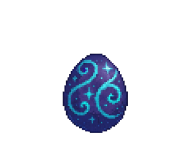
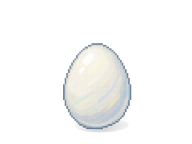
Gameplay changes

Changed region(s): [[0.3125, 0.2778, 0.6875, 0.9444]]

diff --git a/src/store/gameStore.ts b/src/store/gameStore.ts
@@ -479,17 +479,17 @@ export const useGameStore = create<GameState>((set, get) => ({
             // Use sequential habitat indexing instead of terrain type count
             const habitatId = habitats.length;
             
-            // Check if this is a water habitat and if we're in initial board setup
-            const isWaterHabitat = terrainType === TerrainType.WATER;
-            const shouldImproveForPlayer = isWaterHabitat && !state.isInitialized && state.players.length > 0;
+            // Check if this is a beach habitat and if we're in initial board setup
+            const isBeachHabitat = terrainType === TerrainType.BEACH;
+            const shouldImproveForPlayer = isBeachHabitat && !state.isInitialized && state.players.length > 0;
             
             const newHabitat: Habitat = {
               id: `habitat-${habitatId}`,
               position: position,
-              // If this is a water habitat during initial setup and we have a player, set to IMPROVED
+              // If this is a beach habitat during initial setup and we have a player, set to IMPROVED
               state: shouldImproveForPlayer ? HabitatState.IMPROVED : HabitatState.POTENTIAL,
-              // Set shelterType to REEF for water if improved for player
-              shelterType: shouldImproveForPlayer ? ShelterType.REEF : null,
+              // Set shelterType to TIDEPOOL for beach if improved for player
+              shelterType: shouldImproveForPlayer ? ShelterType.TIDEPOOL : null,
               // Set ownerId to player's ID if improved for player
               ownerId: shouldImproveForPlayer ? playerId : null,
               productionRate: 1, // Fixed at 1
@@ -623,7 +623,7 @@ export const useGameStore = create<GameState>((set, get) => ({
         }
         
         // Now place eggs after biomes are generated
-        // Place initial eggs around the habitat, but ONLY for the player's improved water habitat
+        // Place initial eggs around the habitat, but ONLY for the player's improved beach habitat
         habitats.forEach(habitat => {
           // Only place eggs for improved habitats with owners
           if (habitat.productionRate > 0 && 
@@ -653,7 +653,15 @@ export const useGameStore = create<GameState>((set, get) => ({
                   animal.position.y === y
                 );
                 
-                if (!hasEgg) {
+                // For player 1's starting unit, only allow beach terrain
+                if (habitat.shelterType === ShelterType.TIDEPOOL && 
+                    habitat.ownerId === playerId) {
+                  // Only add beach tiles
+                  if (terrainData[y][x] === TerrainType.BEACH && !hasEgg) {
+                    adjacentTiles.push({ x, y });
+                  }
+                } else if (!hasEgg) {
+                  // For other habitats, add any valid tile
                   adjacentTiles.push({ x, y });
                 }
               }
@@ -670,7 +678,10 @@ export const useGameStore = create<GameState>((set, get) => ({
               // Create new egg
               const newAnimal = {
                 id: `animal-${animals.length}`,
-                species: TERRAIN_ANIMAL_MAP[terrainData[tile.y][tile.x]],
+                // For the player 1's starting unit, always use turtle
+                species: (habitat.shelterType === ShelterType.TIDEPOOL && 
+                          habitat.ownerId === playerId) ? 
+                         'turtle' : TERRAIN_ANIMAL_MAP[terrainData[tile.y][tile.x]],
                 state: AnimalState.DORMANT,
                 position: tile,
                 previousPosition: null,
@@ -683,10 +694,10 @@ export const useGameStore = create<GameState>((set, get) => ({
                 terrain: terrainData[tile.y][tile.x] 
               });
               
-              // If this animal is from an improved player-owned water habitat, make it active and owned
+              // If this animal is from an improved player-owned beach habitat, make it active and owned
               if (habitat.state === HabitatState.IMPROVED && 
                   habitat.ownerId !== null && 
-                  habitat.shelterType === ShelterType.REEF) {
+                  habitat.shelterType === ShelterType.TIDEPOOL) {
                 // Make this the active player unit
                 newAnimal.state = AnimalState.ACTIVE;
                 // Type assertion to handle the number assignment to the ownerId property
@@ -975,7 +986,7 @@ interface ValidEggPlacementState {
  * 
  * @param habitat The habitat to find valid egg placement tiles for
  * @param state Simplified game state containing board and animals
- * @returns Array of valid tile coordinates for egg placement, prioritized by proximity to resources
+ * @returns Array of valid tile coordinates for egg placement, prioritized by proximity to resources in owned biomes
  */
 const getValidEggPlacementTiles = (
   habitat: Habitat,
@@ -988,24 +999,50 @@ const getValidEggPlacementTiles = (
     return validTiles;
   }
   
-  // Get the biome ID for this habitat by looking up the tile's biome ID
+  // Get the habitat's owner and biome ID
+  const habitatOwnerId = habitat.ownerId;
   const habitatTile = board.tiles[habitat.position.y][habitat.position.x];
-  const biomeId = habitatTile.biomeId;
+  const habitatBiomeId = habitatTile.biomeId;
   
-  if (!biomeId) {
+  if (!habitatBiomeId) {
     console.warn(`Habitat at ${habitat.position.x},${habitat.position.y} has no biome ID`);
     return validTiles; 
   }
   
+  // Get all biomes owned by this player
+  const playerBiomeIds = new Set<string>();
+  playerBiomeIds.add(habitatBiomeId); // Always include current biome
+  
+  // Find all biomes owned by this player by checking habitats
+  const habitats = useGameStore.getState().habitats;
+  habitats.forEach(h => {
+    if (h.ownerId === habitatOwnerId && h.ownerId !== null) {
+      const biomeTile = board.tiles[h.position.y][h.position.x];
+      if (biomeTile.biomeId) {
+        playerBiomeIds.add(biomeTile.biomeId);
+      }
+    }
+  });
+  
+  console.log(`Player ${habitatOwnerId} owns ${playerBiomeIds.size} biomes`);
+  
   // Create a set of resource positions for quick lookup
   const resourcePositions = new Set<string>();
+  const resourceBiomeMap = new Map<string, string | undefined>();
   const resources = useGameStore.getState().resources;
+  
   resources.forEach(resource => {
-    resourcePositions.add(`${resource.position.x},${resource.position.y}`);
+    const key = `${resource.position.x},${resource.position.y}`;
+    resourcePositions.add(key);
+    // Store the biome ID for each resource
+    const resourceTile = board.tiles[resource.position.y][resource.position.x];
+    resourceBiomeMap.set(key, resourceTile.biomeId || undefined);
   });
   
   // Track positions with resources for prioritization
   const resourceAdjacencyMap = new Map<string, number>();
+  // Track proximity to habitat
+  const habitatProximityMap = new Map<string, boolean>();
   
   // Scan the entire board for tiles in this biome
   for (let y = 0; y < board.height; y++) {
@@ -1016,7 +1053,7 @@ const getValidEggPlacementTiles = (
       const tile = board.tiles[y][x];
       
       // Skip if not in the same biome
-      if (tile.biomeId !== biomeId) continue;
+      if (tile.biomeId !== habitatBiomeId) continue;
       
       // Skip if there's a resource on this tile
       if (resourcePositions.has(`${x},${y}`)) continue;
@@ -1042,15 +1079,28 @@ const getValidEggPlacementTiles = (
             if (dx === 0 && dy === 0) continue;
             if (adjX < 0 || adjX >= board.width || adjY < 0 || adjY >= board.height) continue;
             
-            // Increase score if there's a resource adjacent
-            if (resourcePositions.has(`${adjX},${adjY}`)) {
-              adjacencyScore += 1;
+            const resourcePos = `${adjX},${adjY}`;
+            
+            // Check if there's a resource at this position
+            if (resourcePositions.has(resourcePos)) {
+              // Get the biome ID of this resource
+              const resourceBiomeId = resourceBiomeMap.get(resourcePos);
+              
+              // Only count if the resource is in a biome owned by the player
+              if (resourceBiomeId && playerBiomeIds.has(resourceBiomeId)) {
+                adjacencyScore += 1;
+              }
             }
           }
         }
         
         // Store the score for later sorting
         resourceAdjacencyMap.set(`${x},${y}`, adjacencyScore);
+        
+        // Check if tile is adjacent to the habitat (for tie-breaking)
+        const isAdjacentToHabitat = Math.abs(x - habitat.position.x) <= 1 && 
+                                   Math.abs(y - habitat.position.y) <= 1;
+        habitatProximityMap.set(`${x},${y}`, isAdjacentToHabitat);
         
         // Add to valid tiles
         validTiles.push({ x, y });
@@ -1059,10 +1109,26 @@ const getValidEggPlacementTiles = (
   }
   
   // Sort valid tiles by resource adjacency score (higher is better)
+  // Use habitat proximity as a tie-breaker
   validTiles.sort((a, b) => {
     const scoreA = resourceAdjacencyMap.get(`${a.x},${a.y}`) || 0;
     const scoreB = resourceAdjacencyMap.get(`${b.x},${b.y}`) || 0;
-    return scoreB - scoreA;
+    
+    // First compare by resource adjacency
+    if (scoreB !== scoreA) {
+      return scoreB - scoreA;
+    }
+    
+    // If resource adjacency is equal, use habitat proximity as tie-breaker
+    const isATouchingHabitat = habitatProximityMap.get(`${a.x},${a.y}`) || false;
+    const isBTouchingHabitat = habitatProximityMap.get(`${b.x},${b.y}`) || false;
+    
+    // If A is touching habitat and B is not, A should come first
+    if (isATouchingHabitat && !isBTouchingHabitat) return -1;
+    // If B is touching habitat and A is not, B should come first
+    if (!isATouchingHabitat && isBTouchingHabitat) return 1;
+    // Otherwise, keep original order
+    return 0;
   });
   
   return validTiles;
@@ -1132,11 +1198,10 @@ const processHabitatProduction = (state: GameState): Partial<GameState> => {
       animals: newAnimals
     });
 
-    // Place eggs on valid tiles
+    // Place eggs on valid tiles - use best tiles first (highest resource adjacency)
     for (let i = 0; i < Math.min(eggsToCreate, validTiles.length); i++) {
-      const randomIndex = Math.floor(Math.random() * validTiles.length);
-      const tile = validTiles[randomIndex];
-      validTiles.splice(randomIndex, 1);
+      // Take from the start of the array (highest resource adjacency first)
+      const tile = validTiles[i];
 
       // Create new egg
       const newAnimal = {

diff --git a/src/game.ts b/src/game.ts
@@ -29,16 +29,16 @@ const GAME_CONFIG: Phaser.Types.Core.GameConfig = {
 let gameInstance: Phaser.Game | null = null;
 
 /**
- * Initialize the game board with default settings
+ * Set up the initial game state with default settings
  */
-function initializeGameBoard() {
+function setupGameState() {
   const gameState = useGameStore.getState();
   if (gameState.players.length === 0) {
     actions.addPlayer('Player 1', '#3498db');
   }
   
-  // Initialize the game board
-  actions.initializeBoard({
+  // Set up the game board
+  actions.setupGameBoard({
     width: BOARD_WIDTH_TILES,
     height: BOARD_HEIGHT_TILES,
     mapType: MapGenerationType.ISLAND
@@ -70,7 +70,7 @@ function setupAssetLoadedListener(game: Phaser.Game) {
     boardScene.events.removeAllListeners(EVENTS.ASSETS_LOADED);
     
     // Listen for assets loaded event to initialize the game board
-    boardScene.events.on(EVENTS.ASSETS_LOADED, initializeGameBoard);
+    boardScene.events.on(EVENTS.ASSETS_LOADED, setupGameState);
     
     return true;
   }
@@ -78,9 +78,9 @@ function setupAssetLoadedListener(game: Phaser.Game) {
 }
 
 /**
- * Initializes and returns the Phaser game instance
+ * Creates and initializes the Phaser game engine
  */
-export function initializeGame(): Phaser.Game {
+export function createPhaserEngine(): Phaser.Game {
   // If game instance already exists, return it
   if (gameInstance) {
     return gameInstance;
@@ -119,6 +119,6 @@ export function destroyGame() {
 // Initialize the game when the window loads
 if (typeof window !== 'undefined') {
   window.addEventListener('load', () => {
-    initializeGame();
+    createPhaserEngine();
   });
 } 

diff --git a/src/store/actions.ts b/src/store/actions.ts
@@ -37,9 +37,9 @@ export function getNextTurn(): () => void {
 //
 
 /**
- * Initialize the game board with the specified dimensions and options
+ * Set up the game board with the specified dimensions and options
  */
-export function initializeBoard({ width, height, mapType = MapGenerationType.ISLAND, forceHabitatGeneration = false }: BoardInitOptions): void {
+export function setupGameBoard({ width, height, mapType = MapGenerationType.ISLAND, forceHabitatGeneration = false }: BoardInitOptions): void {
   useGameStore.getState().initializeBoard(width, height, mapType, forceHabitatGeneration);
 }
 

diff --git a/src/index.ts b/src/index.ts
@@ -1,7 +1,8 @@
 // Import and initialize the game
-import { initializeGame } from './game';
+import { createPhaserEngine } from './game';
 
 // Initialize the game when the page loads
 window.addEventListener('load', () => {
-  initializeGame();
+  console.log('Window loaded, starting game...');
+  createPhaserEngine();
 });

diff --git a/src/scenes/BoardScene.ts b/src/scenes/BoardScene.ts
@@ -629,7 +629,7 @@ export default class BoardScene extends Phaser.Scene {
     return this.animationController;
   }
 
-  //et the current input mode
+  //Get the current input mode
   isInMoveMode(): boolean {
     return actions.isMoveMode();
   }

diff --git a/docs/Refactor_PhaseTwo.md b/docs/Refactor_PhaseTwo.md
@@ -1,13 +1,20 @@
 # BoardScene Refactoring: Phase Two
 
-## Recommended Optimizations
+## Remaining Optimizations After React Removal
+
+### Priority Optimizations
 
 1. **Delegate Event Handling to InputManager**
    - Move more event handling logic from BoardScene to InputManager
    - The `handleTileClick` and `handleHabitatClick` methods are still quite large and contain game logic
    - Create a proper EventManager that can coordinate between user input and game actions
 
-2. **Create a ContentManager**
+2. **Implement GameController**
+   - Create the GameController outlined in the documentation
+   - Move game logic out of BoardScene and into proper controller
+   - Establish clear responsibility boundaries between rendering and game logic
+
+3. **Create a ContentManager**
    - Extract `checkTileContents()` into a dedicated ContentManager class
    - This manager would be responsible for querying entity positions and providing access to entities at specific grid locations
 
@@ -16,30 +23,26 @@
    - Move `startUnitMovement` and related code there
    - This would centralize all movement logic in one place
 
-5. **Consolidate Initialization**
-   - The initialization code is spread across multiple methods (`init`, `create`, `setupCamera`, etc.)
-   - Create a more structured initialization pipeline with clear ownership
+5. **Use Proper TypeScript Interfaces**
+   - Replace 'any' types with proper interfaces
+   - Consider using generics for more flexible code
+   - Improve type safety throughout the codebase
 
-7. **Reduce Direct Store Access**
-   - BoardScene still has many direct calls to the store via actions
-   - Consider implementing a facade/adapter pattern for cleaner store access
+### Secondary Optimizations
 
-8. **Remove Direct DOM References**
-   - Check for and remove any direct DOM manipulation
-   - Ensure all rendering goes through Phaser's systems
+6. **Command Pattern for Actions**
+   - Replace direct method calls with command objects
+   - This would make actions more testable and allow for undo/redo functionality
+   - Provides better history tracking for game actions
 
-10. **Clean Up Getter Methods**
-    - Remove unnecessary getter methods at the end of the file
-    - Use dependency injection to provide components where needed
+7. **Separate Concerns in Update Method**
+   - The update method is mixing concerns
+   - Create a dedicated update pipeline with clear responsibilities
 
-11. **Implement Command Pattern**
-    - Replace direct method calls with command objects
-    - This would make actions more testable and allow for undo/redo functionality
+8. **Clean Up Getter Methods**
+   - Remove unnecessary getter methods at the end of the file
+   - Use dependency injection to provide components where needed
 
-12. **Separate Concerns in Update Method**
-    - The update method is mixing concerns
-    - Create a dedicated update pipeline with clear responsibilities
-
-13. **Use Proper TypeScript Interfaces**
-    - Replace 'any' types with proper interfaces
-    - Consider using generics for more flexible code
+9. **Consistent API Patterns**
+   - Make store methods and action functions follow consistent parameter patterns
+   - Either both use object parameters or both use individual parameters

diff --git a/docs/dev_checklist.md b/docs/dev_checklist.md
@@ -7,6 +7,7 @@
 - [ ] Fix bug where player can move after improving habitat
 - [ ] Fix Raley Font (lost during architecture update)
 - [ ] Hide hover selector during unit movement
+- [x] Start player 1 on beach with turtle, adjust turtles to move on grass (Completed: Player 1 starts on beach with turtle unit; turtle unit always spawns on beach tiles)
 
 - [ ] Populate biomes with resources (remove random function)
     - [ ] Update resource generation to be biome-specific instead of random based on lushness quotient of 8
